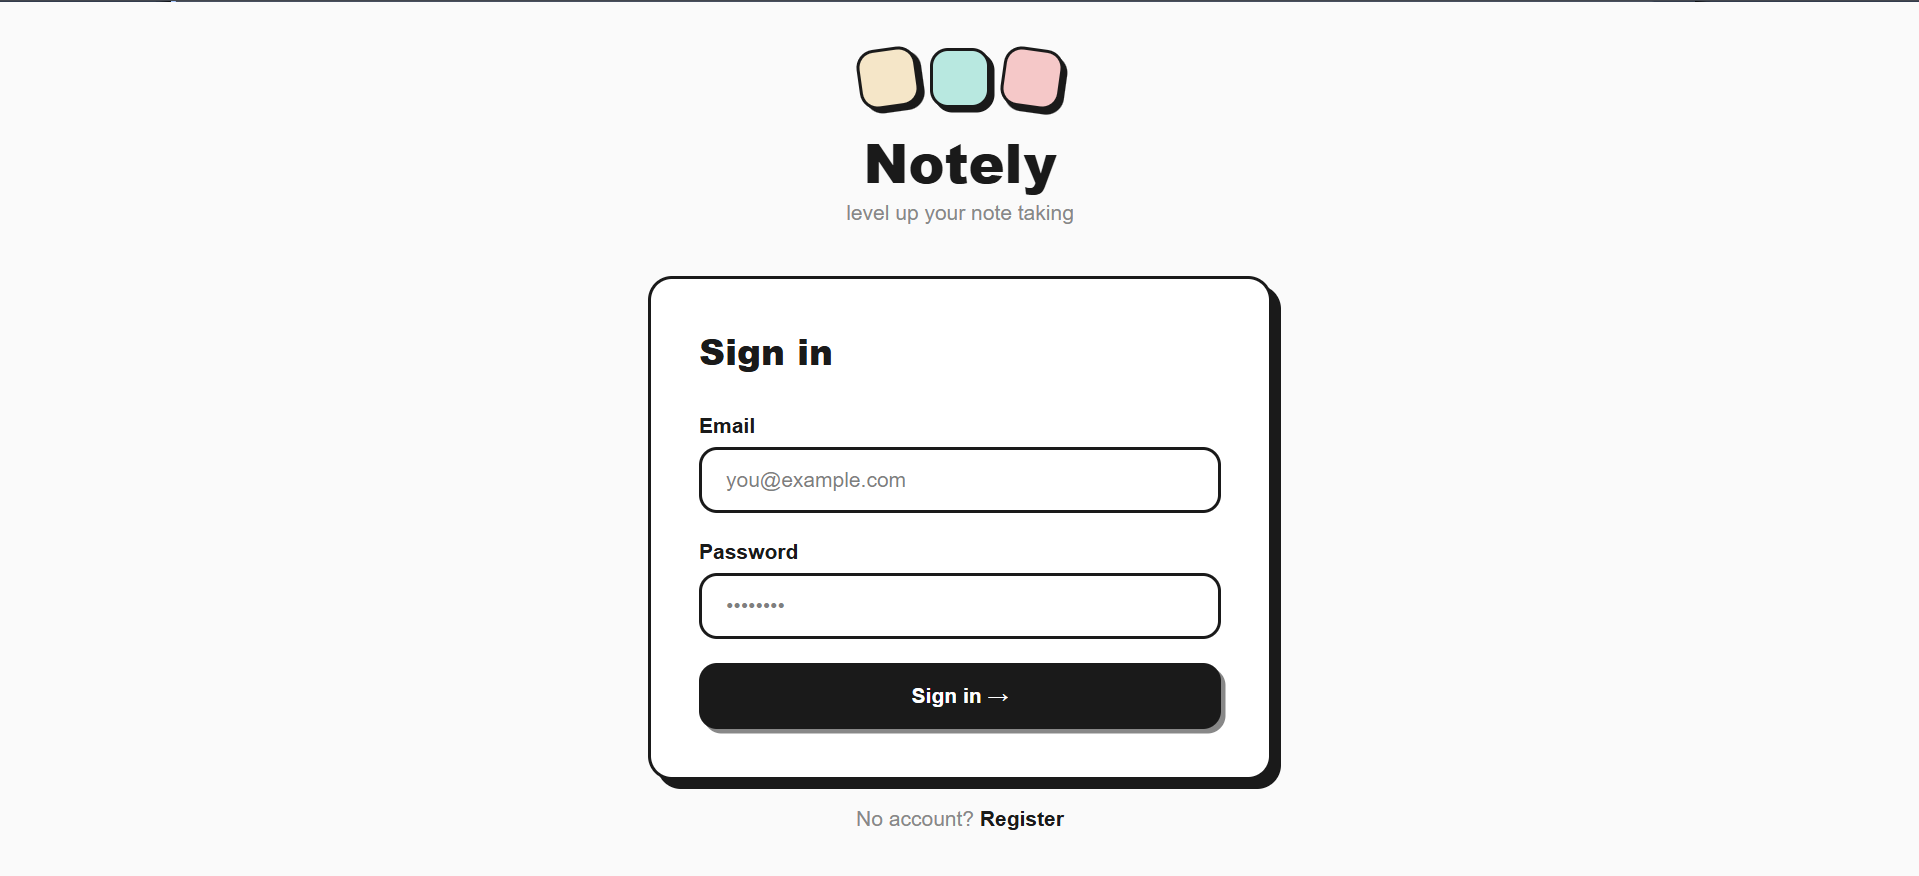
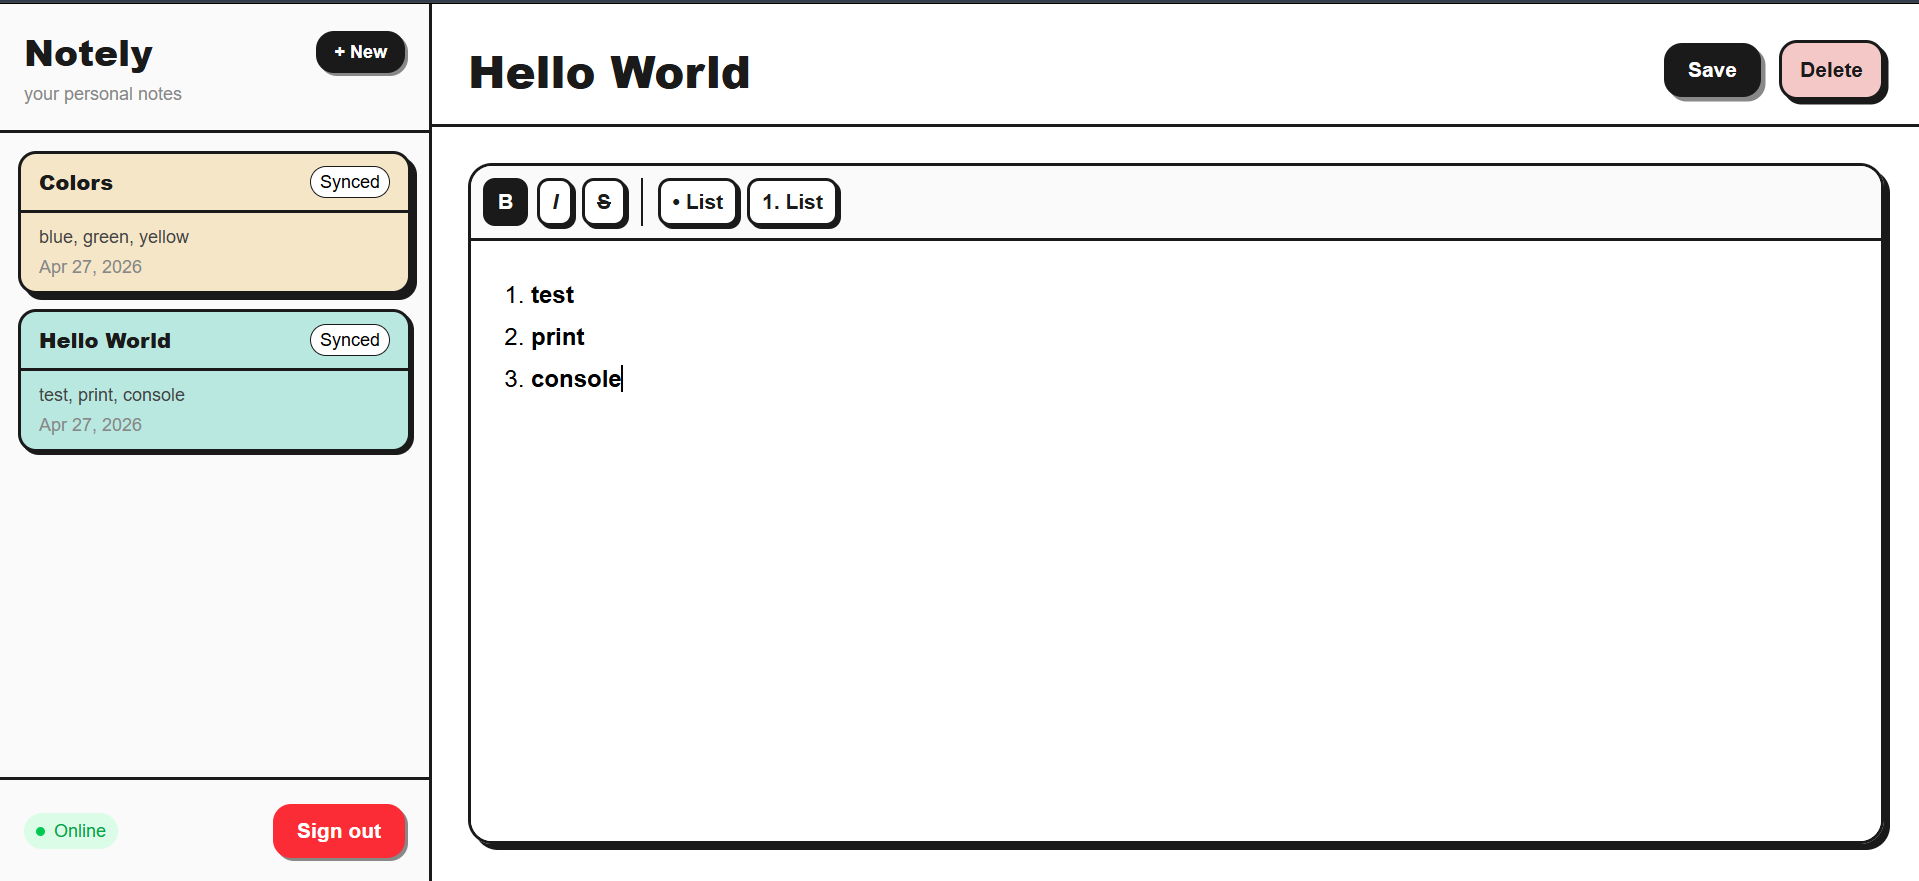
update register to confirm email first

diff --git a/src/pages/Register.tsx b/src/pages/Register.tsx
@@ -14,6 +14,7 @@ export default function Register() {
     general?: string;
   }>({});
   const [loading, setLoading] = useState(false);
+  const [registered, setRegistered] = useState(false);
 
   useEffect(() => {
     supabase.auth.getSession().then(({ data }) => {
@@ -72,10 +73,50 @@ export default function Register() {
         setErrors({ general: error.message });
       }
     } else {
-      navigate("/notes");
+      setRegistered(true);
     }
 
     setLoading(false);
+  }
+
+  // Success screen
+  if (registered) {
+    return (
+      <div className="min-h-screen flex items-center justify-center bg-[#fafafa]">
+        <div className="w-full max-w-md px-4">
+          <div className="text-center mb-8">
+            <div className="flex justify-center gap-2 mb-4">
+              <div className="w-10 h-10 rounded-xl bg-[#F5E6C8] border-2 border-[#1a1a1a] shadow-[3px_3px_0px_#1a1a1a] rotate-[-8deg]" />
+              <div className="w-10 h-10 rounded-xl bg-[#B8E8E0] border-2 border-[#1a1a1a] shadow-[3px_3px_0px_#1a1a1a]" />
+              <div className="w-10 h-10 rounded-xl bg-[#F5C8C8] border-2 border-[#1a1a1a] shadow-[3px_3px_0px_#1a1a1a] rotate-[8deg]" />
+            </div>
+            <h1 className="text-4xl font-black text-[#1a1a1a]">Notely</h1>
+          </div>
+
+          <div className="bg-white border-2 border-[#1a1a1a] rounded-2xl shadow-[6px_6px_0px_#1a1a1a] p-8 text-center">
+            <div className="w-16 h-16 rounded-2xl bg-[#B8E8E0] border-2 border-[#1a1a1a] shadow-[3px_3px_0px_#1a1a1a] flex items-center justify-center text-2xl mx-auto mb-4">
+              ✉️
+            </div>
+            <h2 className="text-2xl font-black text-[#1a1a1a] mb-2">
+              Check your email
+            </h2>
+            <p className="text-sm text-[#888] mb-2">
+              We sent a confirmation link to
+            </p>
+            <p className="text-sm font-bold text-[#1a1a1a] mb-6">{email}</p>
+            <p className="text-xs text-[#888] mb-6">
+              Click the link in the email to activate your account then sign in.
+            </p>
+            <Link
+              to="/login"
+              className="block w-full bg-[#1a1a1a] text-white py-3 rounded-xl text-sm font-bold hover:bg-[#333] shadow-[3px_3px_0px_#888] active:shadow-none transition-all text-center"
+            >
+              Go to Sign in →
+            </Link>
+          </div>
+        </div>
+      </div>
+    );
   }
 
   return (
@@ -148,7 +189,6 @@ export default function Register() {
                     : "border-[#1a1a1a] focus:bg-[#F5E6C8]"
                 }`}
               />
-
               {password.length > 0 && (
                 <div className="mt-1.5 flex gap-1">
                   {[...Array(4)].map((_, i) => (